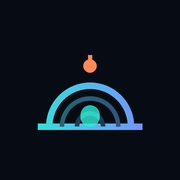
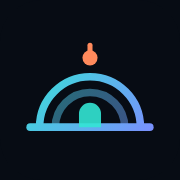
brand: two-arc dome mark, and stop the marquee retiming on hover
Two unrelated fixes, both small.

**Marquee tweak on hover.** The band slowed from 42s to 110s on hover. That
looked right on paper and wrong in practice: changing animation-duration on a
running animation rescales its elapsed time, so the browser recomputes the
current position against the new duration and the track jumps -- once on
hover-in and again on hover-out. Under a cursor moving across the band it
reads as a shake. Removed; the track now runs at one constant rate. Verified
by sampling the computed transform before, during and after a hover: the only
delta is the ~60px/s the track was already travelling, no discontinuity.

There is no replacement hover affordance, deliberately. The band is
non-interactive -- it is a list of who this is for, with nothing to click --
so it does not owe the cursor a reaction.

**Third arc removed from the mark.** The dome was drawn with an outer shell
and two nested arcs. At the sizes it actually renders -- 28-38px in the
header, 16px in a tab -- the innermost arc closes the gap between the middle
arc and the solid entrance into one teal smear, and the silhouette stops
reading as a dome. Two arcs, matching the source app icon. The remaining
nested arc goes to the outer arc's 2.4 weight at 0.5 opacity, so it reads as a
deliberate second ring rather than a faint artifact of the first.

The mark was hand-inlined in five places, all now consistent:
- components/Logo.tsx (header, footer, auth, dashboard)
- app/icon.svg (favicon)
[…]

Changed region(s): [[0.1389, 0.2222, 0.8611, 0.75]]

diff --git a/components/Logo.tsx b/components/Logo.tsx
@@ -3,9 +3,13 @@ import Link from 'next/link';
 /**
  * Moche-AI bell-igloo mark — single source of truth.
  *
- * Design: an igloo/dome built from nested concentric arcs with an arched entrance,
- * topped by a coral "push-to-ring" service-bell button on a short stem — the igloo
- * doubles as a concierge service bell. Legible at 16/24/32px.
+ * Design: an igloo/dome of exactly two arcs -- an outer shell and one nested
+ * arc -- over a solid arched entrance, topped by a coral "push-to-ring"
+ * service-bell button on a short stem, so the igloo doubles as a concierge
+ * bell. Two arcs, not three: at 16-24px a third arc closes the gap between the
+ * nested arc and the entrance into a single teal smear, and the mark stops
+ * reading as a dome. Keep it at two anywhere this is redrawn -- app/icon.svg,
+ * lib/auth/auth-email.ts, app/g/[slug]/GuestPortal.tsx.
  *
  * variant:
  *  - 'gradient' (default): teal→iris gradient stroke, subtle glow. For dark UI.
@@ -44,9 +48,8 @@ export function DomeMark({
         <path d="M5 34h38" stroke={stroke} strokeWidth="2.4" strokeLinecap="round" />
         {/* outer igloo dome */}
         <path d="M8 34a16 16 0 0 1 32 0" stroke={stroke} strokeWidth="2.4" fill="none" />
-        {/* nested igloo arcs */}
-        <path d="M13 34a11 11 0 0 1 22 0" stroke={stroke} strokeWidth="1.7" opacity="0.7" fill="none" />
-        <path d="M18.5 34a5.5 5.5 0 0 1 11 0" stroke={stroke} strokeWidth="1.7" opacity="0.55" fill="none" />
+        {/* single nested arc -- see the note above on why there is only one */}
+        <path d="M13 34a11 11 0 0 1 22 0" stroke={stroke} strokeWidth="2.4" opacity="0.5" fill="none" />
         {/* arched entrance */}
         <path d="M20.5 34v-4.2a3.5 3.5 0 0 1 7 0V34" fill={dome} opacity="0.9" />
         {/* push-to-ring service-bell button on a stem */}

diff --git a/public/landing.html b/public/landing.html
@@ -468,8 +468,7 @@ body {
           </defs>
           <path d="M5 34h38" stroke="url(#brandGrad)" stroke-width="2.4" stroke-linecap="round"/>
           <path d="M8 34a16 16 0 0 1 32 0" stroke="url(#brandGrad)" stroke-width="2.4" fill="none"/>
-          <path d="M13 34a11 11 0 0 1 22 0" stroke="url(#brandGrad)" stroke-width="1.7" opacity="0.7" fill="none"/>
-          <path d="M18.5 34a5.5 5.5 0 0 1 11 0" stroke="url(#brandGrad)" stroke-width="1.7" opacity="0.55" fill="none"/>
+          <path d="M13 34a11 11 0 0 1 22 0" stroke="url(#brandGrad)" stroke-width="2.4" opacity="0.5" fill="none"/>
           <path d="M20.5 34v-4.2a3.5 3.5 0 0 1 7 0V34" fill="#33E6D4" opacity="0.9"/>
           <circle cx="24" cy="12" r="2.4" fill="#FF8A5C"/>
           <path d="M24 12v-4" stroke="#FF8A5C" stroke-width="1.6" stroke-linecap="round"/>
@@ -1065,8 +1064,7 @@ body {
             </defs>
             <path d="M5 34h38" stroke="url(#brandGradFooter)" stroke-width="2.4" stroke-linecap="round"/>
             <path d="M8 34a16 16 0 0 1 32 0" stroke="url(#brandGradFooter)" stroke-width="2.4" fill="none"/>
-            <path d="M13 34a11 11 0 0 1 22 0" stroke="url(#brandGradFooter)" stroke-width="1.7" opacity="0.7" fill="none"/>
-            <path d="M18.5 34a5.5 5.5 0 0 1 11 0" stroke="url(#brandGradFooter)" stroke-width="1.7" opacity="0.55" fill="none"/>
+            <path d="M13 34a11 11 0 0 1 22 0" stroke="url(#brandGradFooter)" stroke-width="2.4" opacity="0.5" fill="none"/>
             <path d="M20.5 34v-4.2a3.5 3.5 0 0 1 7 0V34" fill="#33E6D4" opacity="0.9"/>
             <circle cx="24" cy="12" r="2.4" fill="#FF8A5C"/><path d="M24 12v-4" stroke="#FF8A5C" stroke-width="1.6" stroke-linecap="round"/>
           </svg>

diff --git a/app/g/[slug]/GuestPortal.tsx b/app/g/[slug]/GuestPortal.tsx
@@ -179,8 +179,7 @@ function DomeMark({ size = 40 }: { size?: number }) {
         </defs>
         <path d="M5 34h38" stroke={`url(#${gid})`} strokeWidth="2.4" strokeLinecap="round" />
         <path d="M8 34a16 16 0 0 1 32 0" stroke={`url(#${gid})`} strokeWidth="2.4" fill="none" />
-        <path d="M13 34a11 11 0 0 1 22 0" stroke={`url(#${gid})`} strokeWidth="1.7" opacity="0.7" fill="none" />
-        <path d="M18.5 34a5.5 5.5 0 0 1 11 0" stroke={`url(#${gid})`} strokeWidth="1.7" opacity="0.55" fill="none" />
+        <path d="M13 34a11 11 0 0 1 22 0" stroke={`url(#${gid})`} strokeWidth="2.4" opacity="0.5" fill="none" />
         <path d="M20.5 34v-4.2a3.5 3.5 0 0 1 7 0V34" fill={GOLD} opacity="0.9" />
         <circle cx="24" cy="12" r="2.4" fill={GOLD} />
         <path d="M24 12v-4" stroke={GOLD} strokeWidth="1.6" strokeLinecap="round" />

diff --git a/lib/auth/auth-email.ts b/lib/auth/auth-email.ts
@@ -38,8 +38,7 @@ function brandMarkSvg(): string {
   </defs>
   <path d="M5 34h38" stroke="url(#mocheMailGrad)" stroke-width="2.4" stroke-linecap="round"/>
   <path d="M8 34a16 16 0 0 1 32 0" stroke="url(#mocheMailGrad)" stroke-width="2.4" fill="none"/>
-  <path d="M13 34a11 11 0 0 1 22 0" stroke="url(#mocheMailGrad)" stroke-width="1.7" opacity="0.7" fill="none"/>
-  <path d="M18.5 34a5.5 5.5 0 0 1 11 0" stroke="url(#mocheMailGrad)" stroke-width="1.7" opacity="0.55" fill="none"/>
+  <path d="M13 34a11 11 0 0 1 22 0" stroke="url(#mocheMailGrad)" stroke-width="2.4" opacity="0.5" fill="none"/>
   <path d="M20.5 34v-4.2a3.5 3.5 0 0 1 7 0V34" fill="#33E6D4" opacity="0.9"/>
   <circle cx="24" cy="12" r="2.4" fill="#FF8A5C"/>
   <path d="M24 12v-4" stroke="#FF8A5C" stroke-width="1.6" stroke-linecap="round"/>

diff --git a/components/landing/landing.module.css b/components/landing/landing.module.css
@@ -467,15 +467,12 @@
    identical groups translated by exactly half the track makes the loop seam
    invisible. */
 @media (prefers-reduced-motion: no-preference) {
+  /* Deliberately no hover speed change. Retiming a running animation rescales
+     its elapsed time, so the track visibly jumps on both hover-in and
+     hover-out -- it reads as a glitch, not as deceleration. A constant rate is
+     the only version that stays calm under a moving cursor. */
   .marqueeTrack {
     animation: marqueeScroll 42s linear infinite;
-  }
-
-  /* Slow rather than stop on hover. A hard stop reads as a bug; deceleration
-     reads as the page noticing the cursor. */
-  .marquee:hover .marqueeTrack,
-  .marquee:focus-within .marqueeTrack {
-    animation-duration: 110s;
   }
 }
 
